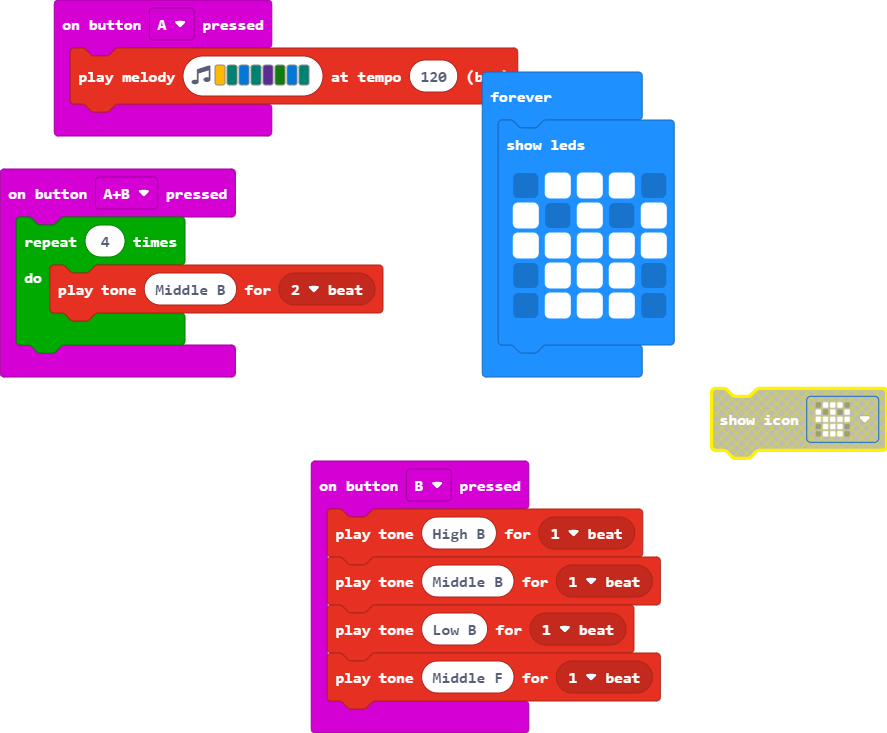
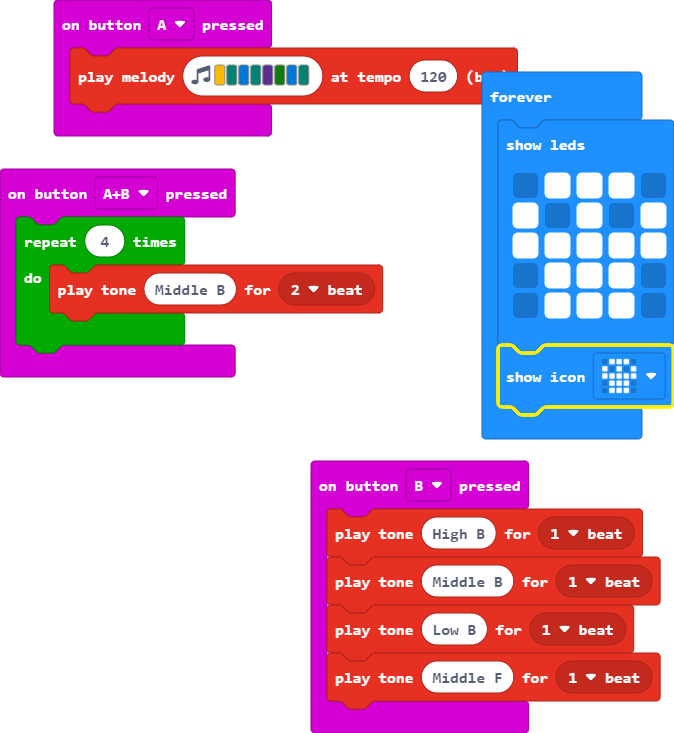
Update main.blocks, main.ts

diff --git a/main.ts b/main.ts
@@ -20,4 +20,5 @@ basic.forever(function () {
         . # # # .
         . # # # .
         `)
+    basic.showIcon(IconNames.Skull)
 })
